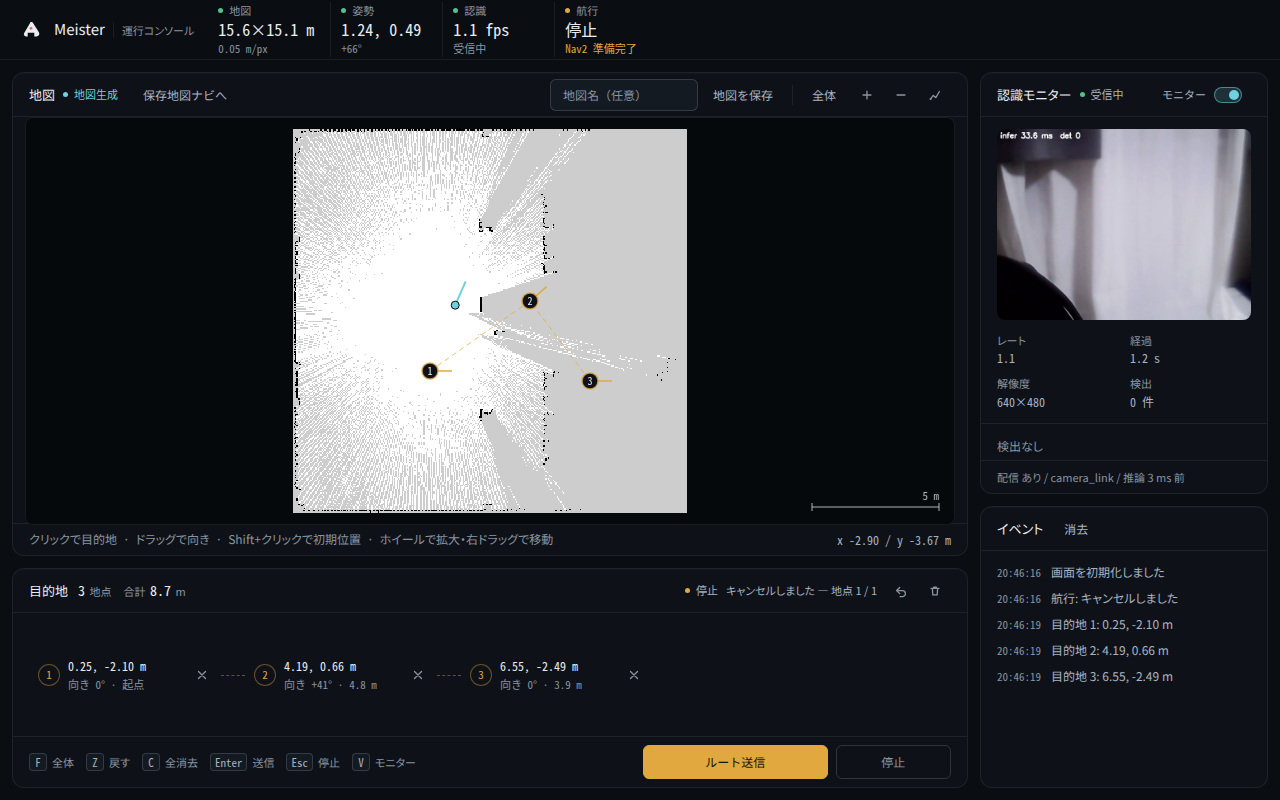
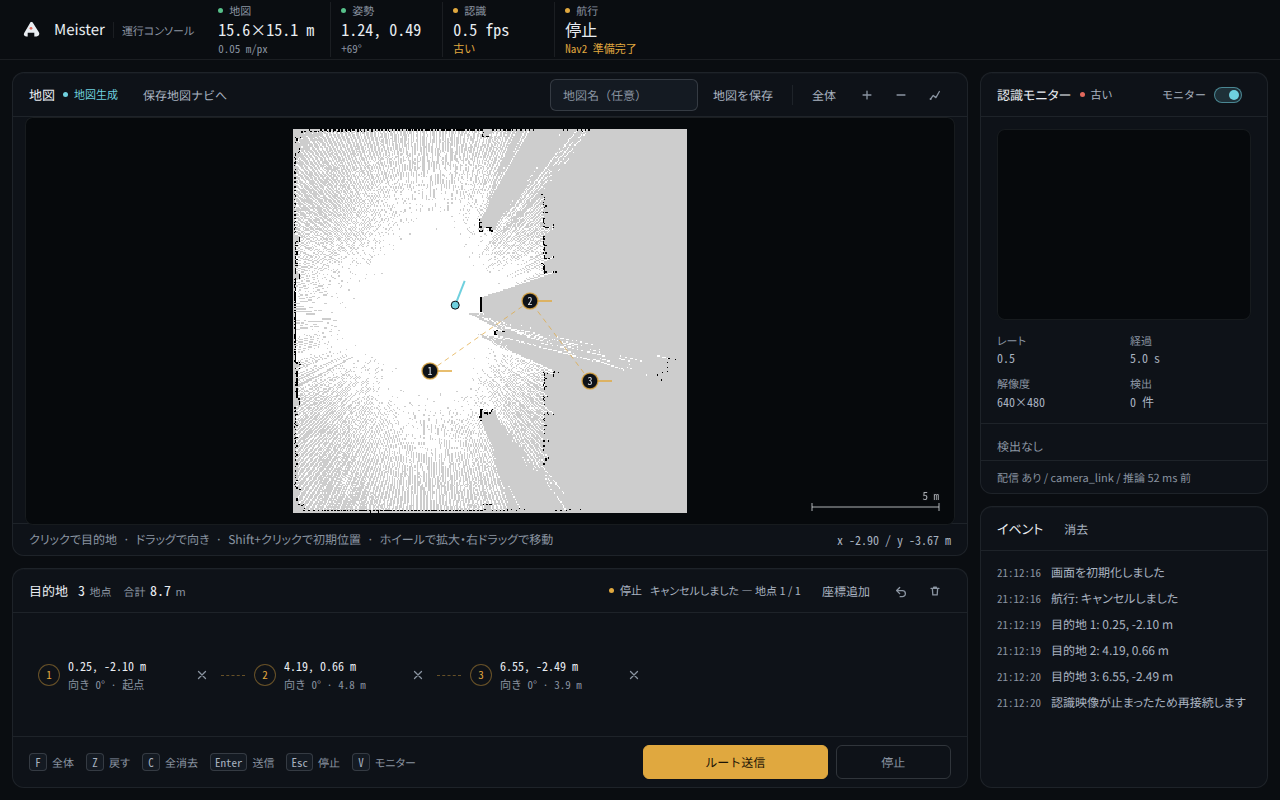
docs(webui): 座標ダイアログと並べ替えを追記する

diff --git a/docs/design/05-web-ui.md b/docs/design/05-web-ui.md
@@ -104,6 +104,9 @@
 - **巡回中の地点が分かる**。航行中は `/api/status` の `current_waypoint` でリストの 1 点を
   反転し、地図側も同じ点に輪を足す。航行中は目的地の追加・削除・全消去とモード切替を
   凍結し、画面のルートと実際に走っているルートを食い違わせない。
+- **座標で追加・編集**: ルート見出しの「座標追加」で x/y/向きを直接入力する。各停止点の
+  本文はボタンで、押すと同じダイアログで位置・向きを直せる。「前へ/後ろへ」で 1 点ずつ
+  順序を入れ替える。航行中は開けない。キーボードだけでも追加まで完結する。
 - **操作は対象のパネルへ**: モード表示・切替・地図名・保存は地図の見出し、
   モニターの ON/OFF は認識モニターの見出し、副操作 (戻す・全消去) は目的地の見出し。
   ヘッダには名乗りと 4 つの計器だけを残す。
@@ -143,6 +146,11 @@
   通知が 4 秒表示されても、その下のスイッチやボタンは操作できる。
 - **全消去は取り消せる**。実行後 8 秒間トーストに「元に戻す」を出し、その間に
   目的地が増えていなければ元の一覧へ戻す。
+
+座標の追加・編集は、地図の上に重ねたダイアログで行う。
+
+![座標の編集ダイアログ](webui-point-dialog.png)
+
 - **1 列 (980px 以下)**: 地図→目的地→認識→イベントの順に積み、ページがスクロールする。
   640px 以下では `ルート送信` / `停止` を画面下に固定し、地図で目的地を足した直後に
   押せるようにする。計器は 1 行 4 列（320px 級は 2 列）にし、注記は省いて高さを抑える。

diff --git a/docs/features/05-web-ui.md b/docs/features/05-web-ui.md
@@ -44,6 +44,8 @@
       航行中は目的地の追加・削除・全消去・モード切替を凍結する
 - [ ] Nav2 準備前は送信を「Nav2 待ち」として無効化する
 - [ ] タッチの地図移動: 地図ヘッダの「移動」で 1 本指パン。トーストは下の操作を塞がない
+- [ ] 座標の直接入力・編集: ルート見出しの「座標追加」と各停止点の本文からダイアログを開き、
+      x/y/向きを修正する。前へ/後ろへで 1 点ずつ並べ替える。航行中は凍結する
 - [ ] 表示位置の維持: 地図が 2 秒ごとに再取得されてもパン・ズームを保つ。ウィンドウの
       リサイズは、未操作なら全体表示に追従し、操作後は表示を保つ
 - [ ] 非表示タブの停止: 非表示中は JSON 取得と MJPEG を止め、復帰時に再取得する
